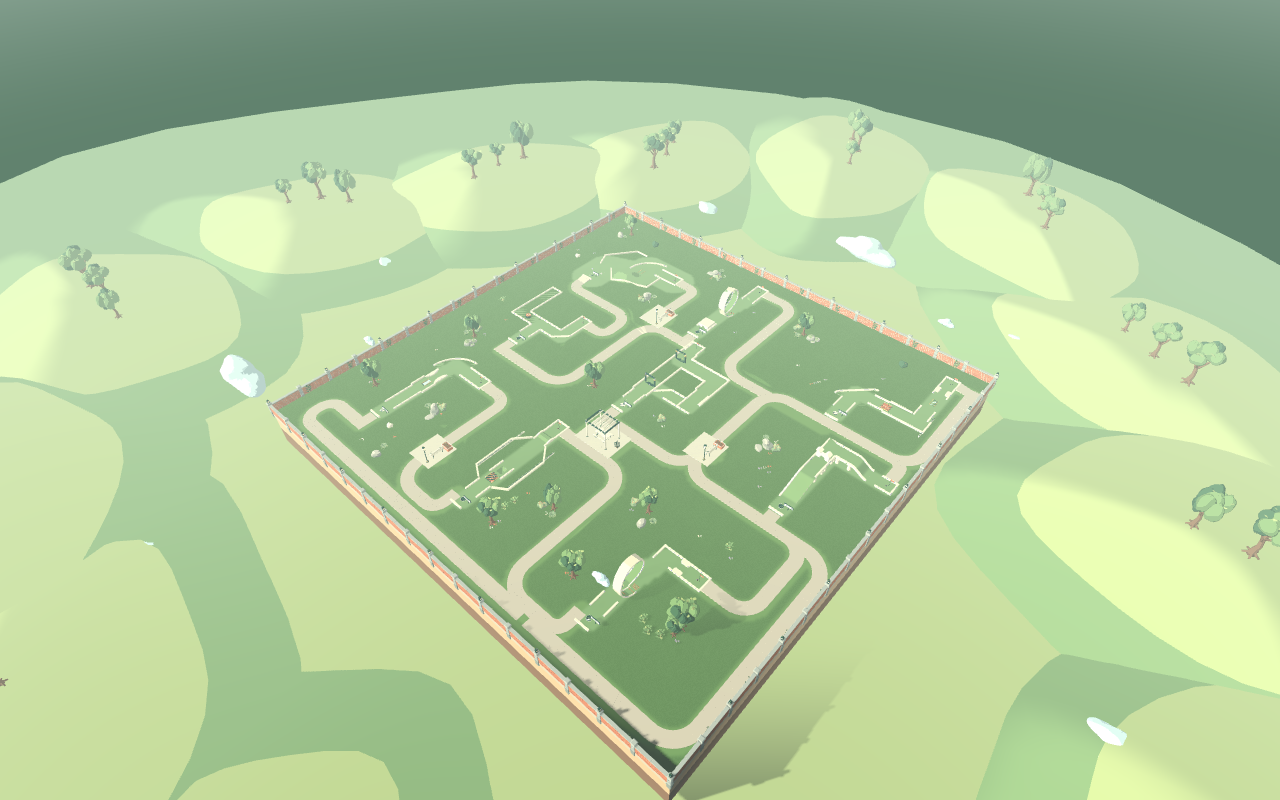
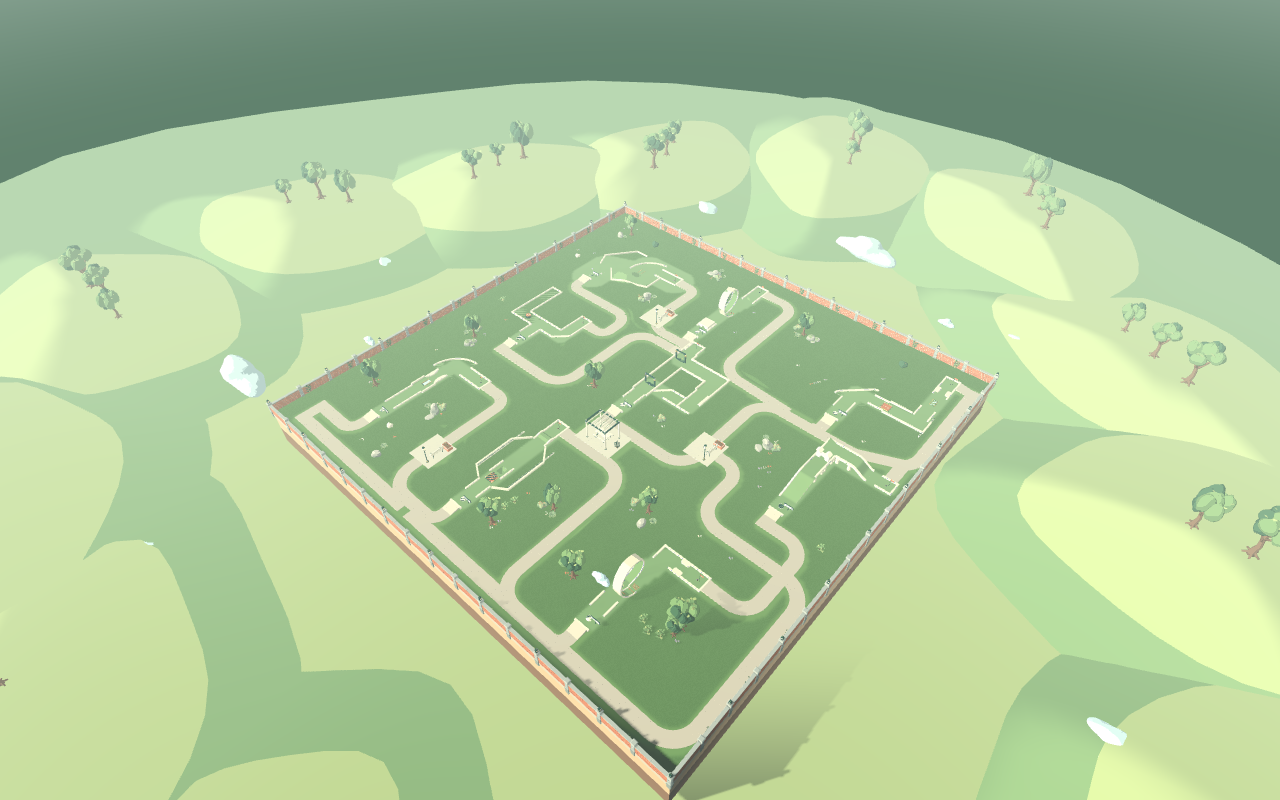
Document 0.1.6 course entrance fixes with new screenshots

diff --git a/CHANGELOG.md b/CHANGELOG.md
@@ -3,6 +3,19 @@
 [Latest download](https://github.com/RyanFDev/putt-together-releases/releases/latest)
  · [Getting started](GETTING_STARTED.md)
 
+## 0.1.6 — 23 October 2026
+
+- Repair missing path entrances and awkward joins in the included outdoor parks,
+  including paths that ran beneath curbs or into greens in 0.1.5.
+- Improve the path tool's ramps along slopes and across adjoining curb pieces.
+- Improve Willowbend's walking bridge and drawbridge approaches.
+- Smooth the lighting across fitted path entrances.
+
+After updating, reopen the bundled courses from **Explore parks** for the
+corrected layouts. Existing personal saved copies remain unchanged.
+
+[Release and download](https://github.com/RyanFDev/putt-together-releases/releases/tag/v0.1.6)
+
 ## 0.1.5 — 23 October 2026
 
 - Refreshed all eleven included course layouts, paths, rest areas, grounding and

diff --git a/README.md b/README.md
@@ -15,6 +15,11 @@ same building tools.
 
 <table>
 <tr>
+<td><img src="images/cloudbank-entrance.png" alt="Cloudbank's path shaped into a ramp at the outside of the curved curb" width="640"></td>
+<td><img src="images/canopy-entrance.png" alt="Clockwork Canopy's fitted path entrance at a raised green" width="640"></td>
+</tr>
+<tr><td>Fitted curb entrance · Cloudbank Gardens</td><td>Path access · Clockwork Canopy</td></tr>
+<tr>
 <td><img src="images/willow-island.png" alt="Willow Island, with its timed drawbridge and water moat" width="640"></td>
 <td><img src="images/midnight-circuit.png" alt="Midnight Circuit's neon lounge beside the connected visitor paths" width="640"></td>
 </tr>

diff --git a/notes/0.1.6.md b/notes/0.1.6.md
@@ -1,0 +1,10 @@
+# Putt Together 0.1.6
+
+A corrective walking-path pass covering all eleven included parks.
+
+- Repair outdoor paths that ran beneath curbs or into greens in 0.1.5, and improve entrances and pavement joins.
+- Improve Willowbend's walking bridge and drawbridge approaches.
+- Make the Draw Path tool fit sloping curbs and adjoining curb pieces more reliably.
+- Smooth entrance lighting while keeping solid ramp foundations.
+
+After updating, reopen the bundled courses from **Explore parks** to load the corrected layouts. Your existing personal saved copies remain unchanged.
